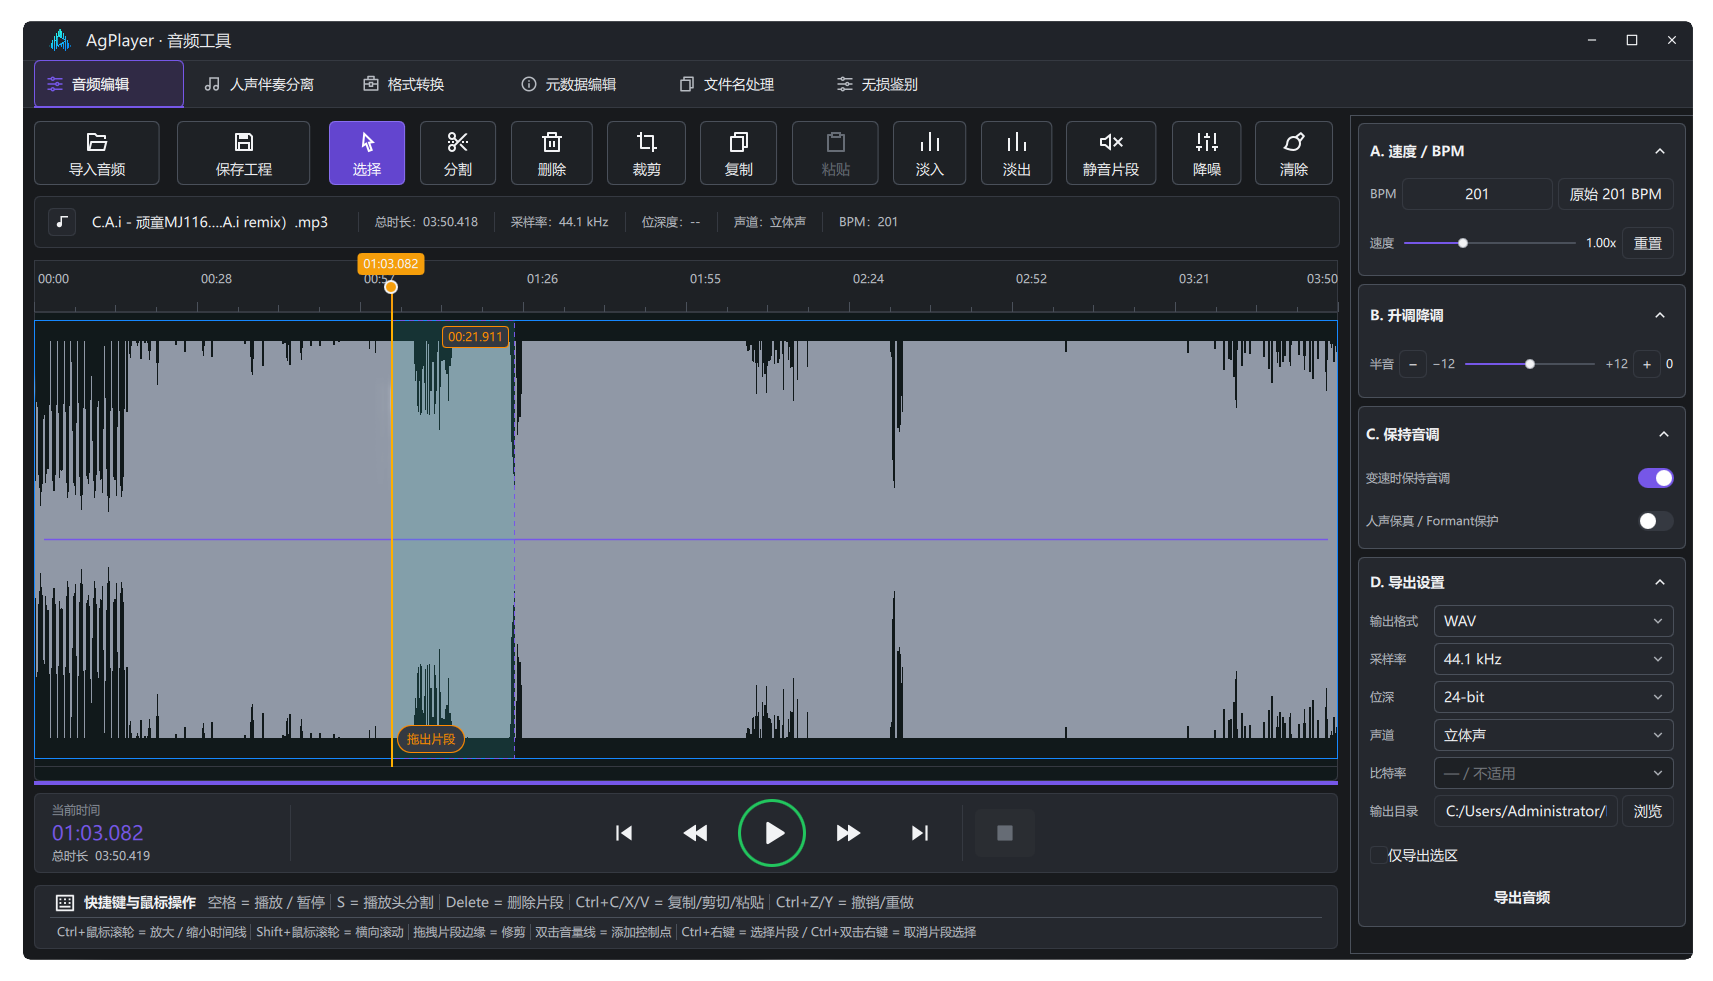
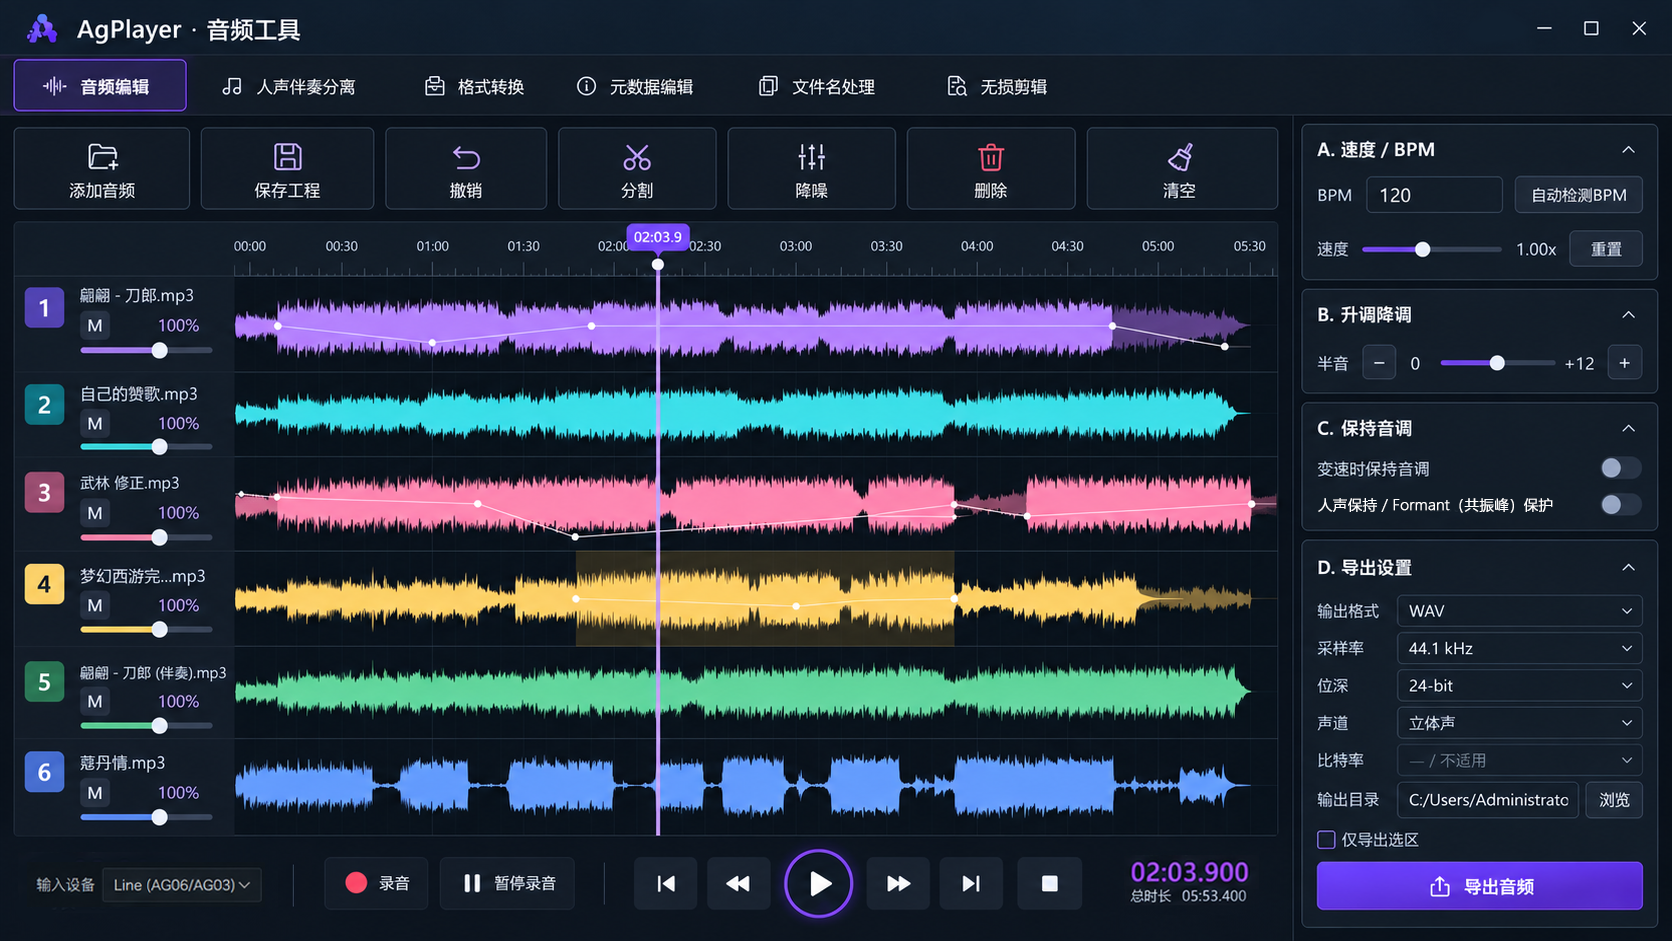
更新音频编辑截图及工具展示图

diff --git a/index.html b/index.html
@@ -12,7 +12,7 @@
   <ol class="feature-list"><li><span class="feature-emblem" aria-hidden="true"><svg class="icon"><use href="#ag-polish-audio-lines"></use></svg><small>01</small></span><div><h3 data-i18n="features.formats.title">全格式 · 无间隙播放</h3><p data-i18n="features.formats.description">支持 MP3、WAV、FLAC、AAC 等常用格式，专辑曲目自然衔接，聆听不间断。</p></div></li><li><span class="feature-emblem" aria-hidden="true"><svg class="icon"><use href="#ag-icon-scissors"></use></svg><small>02</small></span><div><h3 data-i18n="features.selection.title">框选波形 · 拖出片段</h3><p data-i18n="features.selection.description">一键框选波形，将选中片段直接拖到桌面或剪辑软件时间线，选段剪辑更高效。</p></div></li><li><span class="feature-emblem" aria-hidden="true"><svg class="icon"><use href="#ag-icon-tempo"></use></svg><small>03</small></span><div><h3 data-i18n="features.tempo.title">加速播放 · 节拍网格</h3><p data-i18n="features.tempo.description">自由调整播放速度与 BPM，配合大幅滚动波形和节拍网格，看清细节，找准节奏。</p></div></li><li><span class="feature-emblem" aria-hidden="true"><svg class="icon"><use href="#ag-polish-panels-top-left"></use></svg><small>04</small></span><div><h3 data-i18n="features.layouts.title">三种主题 · 迷你播放</h3><p data-i18n="features.layouts.description">经典双窗口、单窗口与专业模式随心切换，支持磁吸组合，迷你窗口置顶不打扰。</p></div></li><li><span class="feature-emblem" aria-hidden="true"><svg class="icon"><use href="#ag-icon-tag"></use></svg><small>05</small></span><div><h3 data-i18n="features.library.title">标签管理 · 精准筛选</h3><p data-i18n="features.library.description">用标签、收藏与评分管理歌曲，按歌曲、艺人、评分和 BPM 范围快速定位。</p></div></li><li><span class="feature-emblem" aria-hidden="true"><svg class="icon"><use href="#ag-icon-sliders"></use></svg><small>06</small></span><div><h3 data-i18n="features.editing.title">音频编辑 · 升降调</h3><p data-i18n="features.editing.description">选段、分割、裁剪与淡入淡出，支持升降调和 BPM 调速，试听满意再导出。</p></div></li><li><span class="feature-emblem" aria-hidden="true"><svg class="icon"><use href="#ag-icon-convert"></use></svg><small>07</small></span><div><h3 data-i18n="features.separation.title">伴奏分离 · 格式转换</h3><p data-i18n="features.separation.description">分离人声与伴奏，批量转换常用音频格式；工具处理时，音乐仍可正常播放。</p></div></li><li><span class="feature-emblem" aria-hidden="true"><svg class="icon"><use href="#ag-icon-file"></use></svg><small>08</small></span><div><h3 data-i18n="features.metadata.title">元数据 · 文件名整理</h3><p data-i18n="features.metadata.description">批量编辑标题、艺人、专辑与封面，预览并统一整理文件名，让音乐信息更完整。</p></div></li><li><span class="feature-emblem" aria-hidden="true"><svg class="icon"><use href="#ag-icon-searchwave"></use></svg><small>09</small></span><div><h3 data-i18n="features.quality.title">无损鉴别 · 本地处理</h3><p data-i18n="features.quality.description">结合频谱与音频特征，辅助判断音源品质；播放、分析与处理均在本地完成。</p></div></li></ol><p class="feature-updates" data-i18n="features.updates">持续更新与优化，让每一次聆听与创作更顺手。</p>
  </div>
 </section>
-<section id="tools" class="chapter tools"><canvas class="sound-field ambient-field" aria-hidden="true"></canvas><div class="container section-heading"><h2 class="" data-i18n="tools.title">轻便工具，留给音乐更多可能</h2><p class="" data-i18n="tools.localNote">所有处理均在本地完成，不影响音乐正常播放。</p></div><div class="tools-showcase"><div class="tool-orbit" aria-label="选择音频工具" data-i18n-aria="showcase.toolTabs"><button class="orbit-card is-active" type="button" data-tool="separation" aria-pressed="true" aria-label="伴奏分离" data-i18n-aria="tools.separation.title"><span class="orbit-card-bar"><svg class="icon" aria-hidden="true"><use href="#ag-icon-wave"></use></svg><span class="" data-i18n="tools.separation.title">伴奏分离</span><span class="card-dots" aria-hidden="true">···</span></span><img src="assets/images/tool-separation.png" alt="伴奏分离" data-i18n-alt="tools.separation.title" loading="lazy" decoding="async"></button><button class="orbit-card " type="button" data-tool="conversion" aria-pressed="false" aria-label="格式转换" data-i18n-aria="tools.conversion.title"><span class="orbit-card-bar"><svg class="icon" aria-hidden="true"><use href="#ag-icon-convert"></use></svg><span class="" data-i18n="tools.conversion.title">格式转换</span><span class="card-dots" aria-hidden="true">···</span></span><img src="assets/images/tool-conversion.png" alt="格式转换" data-i18n-alt="tools.conversion.title" loading="lazy" decoding="async"></button><button class="orbit-card " type="button" data-tool="editing" aria-pressed="false" aria-label="音频编辑" data-i18n-aria="tools.editing.title"><span class="orbit-card-bar"><svg class="icon" aria-hidden="true"><use href="#ag-icon-scissors"></use></svg><span class="" data-i18n="tools.editing.title">音频编辑</span><span class="card-dots" aria-hidden="true">···</span></span><img src="assets/images/tool-editing.png" alt="音频编辑" data-i18n-alt="tools.editing.title" loading="lazy" decoding="async"></button><button class="orbit-card " type="button" data-tool="metadata" aria-pressed="false" aria-label="元数据修改" data-i18n-aria="tools.metadata.title"><span class="orbit-card-bar"><svg class="icon" aria-hidden="true"><use href="#ag-icon-tag"></use></svg><span class="" data-i18n="tools.metadata.title">元数据修改</span><span class="card-dots" aria-hidden="true">···</span></span><img src="assets/images/tool-metadata.png" alt="元数据修改" data-i18n-alt="tools.metadata.title" loading="lazy" decoding="async"></button><button class="orbit-card " type="button" data-tool="filenames" aria-pressed="false" aria-label="文件名处理" data-i18n-aria="tools.filenames.title"><span class="orbit-card-bar"><svg class="icon" aria-hidden="true"><use href="#ag-icon-file"></use></svg><span class="" data-i18n="tools.filenames.title">文件名处理</span><span class="card-dots" aria-hidden="true">···</span></span><img src="assets/images/tool-filenames.png" alt="文件名处理" data-i18n-alt="tools.filenames.title" loading="lazy" decoding="async"></button><button class="orbit-card " type="button" data-tool="lossless" aria-pressed="false" aria-label="无损鉴别" data-i18n-aria="tools.lossless.title"><span class="orbit-card-bar"><svg class="icon" aria-hidden="true"><use href="#ag-icon-searchwave"></use></svg><span class="" data-i18n="tools.lossless.title">无损鉴别</span><span class="card-dots" aria-hidden="true">···</span></span><img src="assets/images/tool-lossless.png" alt="无损鉴别" data-i18n-alt="tools.lossless.title" loading="lazy" decoding="async"></button></div><div class="container tool-description-row"><button type="button" class="orbit-arrow" data-tool-step="-1" aria-label="上一项" data-i18n-aria="showcase.previous">←</button><div class="tool-info"><h3 class="" data-i18n="tools.separation.title">伴奏分离</h3><p class="" data-i18n="tools.separation.description">分离人声与伴奏，专注每一层声音。</p></div><button type="button" class="orbit-arrow" data-tool-step="1" aria-label="下一项" data-i18n-aria="showcase.next">→</button><button class="showcase-pause" data-pause="tools" type="button" aria-label="暂停自动切换"><svg class="icon" aria-hidden="true"><use href="#ag-icon-pause"></use></svg></button></div><div class="container tool-tabs" role="group" aria-label="选择音频工具" data-i18n-aria="showcase.toolTabs"><button type="button" data-tool-nav="separation" aria-pressed="true"><svg class="icon" aria-hidden="true"><use href="#ag-icon-wave"></use></svg><span class="" data-i18n="tools.separation.title">伴奏分离</span></button><button type="button" data-tool-nav="conversion" aria-pressed="false"><svg class="icon" aria-hidden="true"><use href="#ag-icon-convert"></use></svg><span class="" data-i18n="tools.conversion.title">格式转换</span></button><button type="button" data-tool-nav="editing" aria-pressed="false"><svg class="icon" aria-hidden="true"><use href="#ag-icon-scissors"></use></svg><span class="" data-i18n="tools.editing.title">音频编辑</span></button><button type="button" data-tool-nav="metadata" aria-pressed="false"><svg class="icon" aria-hidden="true"><use href="#ag-icon-tag"></use></svg><span class="" data-i18n="tools.metadata.title">元数据修改</span></button><button type="button" data-tool-nav="filenames" aria-pressed="false"><svg class="icon" aria-hidden="true"><use href="#ag-icon-file"></use></svg><span class="" data-i18n="tools.filenames.title">文件名处理</span></button><button type="button" data-tool-nav="lossless" aria-pressed="false"><svg class="icon" aria-hidden="true"><use href="#ag-icon-searchwave"></use></svg><span class="" data-i18n="tools.lossless.title">无损鉴别</span></button></div><p class="tool-extra" data-i18n="showcase.pitchBpm">音频编辑还支持升降调与 BPM 分析。</p></div></section><section id="mini" class="chapter mini mini-project">
+<section id="tools" class="chapter tools"><canvas class="sound-field ambient-field" aria-hidden="true"></canvas><div class="container section-heading"><h2 class="" data-i18n="tools.title">轻便工具，留给音乐更多可能</h2><p class="" data-i18n="tools.localNote">所有处理均在本地完成，不影响音乐正常播放。</p></div><div class="tools-showcase"><div class="tool-orbit" aria-label="选择音频工具" data-i18n-aria="showcase.toolTabs"><button class="orbit-card is-active" type="button" data-tool="separation" aria-pressed="true" aria-label="伴奏分离" data-i18n-aria="tools.separation.title"><span class="orbit-card-bar"><svg class="icon" aria-hidden="true"><use href="#ag-icon-wave"></use></svg><span class="" data-i18n="tools.separation.title">伴奏分离</span><span class="card-dots" aria-hidden="true">···</span></span><img src="assets/images/tool-separation.png" alt="伴奏分离" data-i18n-alt="tools.separation.title" loading="lazy" decoding="async"></button><button class="orbit-card " type="button" data-tool="conversion" aria-pressed="false" aria-label="格式转换" data-i18n-aria="tools.conversion.title"><span class="orbit-card-bar"><svg class="icon" aria-hidden="true"><use href="#ag-icon-convert"></use></svg><span class="" data-i18n="tools.conversion.title">格式转换</span><span class="card-dots" aria-hidden="true">···</span></span><img src="assets/images/tool-conversion.png" alt="格式转换" data-i18n-alt="tools.conversion.title" loading="lazy" decoding="async"></button><button class="orbit-card " type="button" data-tool="editing" aria-pressed="false" aria-label="音频编辑" data-i18n-aria="tools.editing.title"><span class="orbit-card-bar"><svg class="icon" aria-hidden="true"><use href="#ag-icon-scissors"></use></svg><span class="" data-i18n="tools.editing.title">音频编辑</span><span class="card-dots" aria-hidden="true">···</span></span><img src="assets/images/tool-editing.png?v=20260920" alt="音频编辑" data-i18n-alt="tools.editing.title" loading="lazy" decoding="async"></button><button class="orbit-card " type="button" data-tool="metadata" aria-pressed="false" aria-label="元数据修改" data-i18n-aria="tools.metadata.title"><span class="orbit-card-bar"><svg class="icon" aria-hidden="true"><use href="#ag-icon-tag"></use></svg><span class="" data-i18n="tools.metadata.title">元数据修改</span><span class="card-dots" aria-hidden="true">···</span></span><img src="assets/images/tool-metadata.png" alt="元数据修改" data-i18n-alt="tools.metadata.title" loading="lazy" decoding="async"></button><button class="orbit-card " type="button" data-tool="filenames" aria-pressed="false" aria-label="文件名处理" data-i18n-aria="tools.filenames.title"><span class="orbit-card-bar"><svg class="icon" aria-hidden="true"><use href="#ag-icon-file"></use></svg><span class="" data-i18n="tools.filenames.title">文件名处理</span><span class="card-dots" aria-hidden="true">···</span></span><img src="assets/images/tool-filenames.png" alt="文件名处理" data-i18n-alt="tools.filenames.title" loading="lazy" decoding="async"></button><button class="orbit-card " type="button" data-tool="lossless" aria-pressed="false" aria-label="无损鉴别" data-i18n-aria="tools.lossless.title"><span class="orbit-card-bar"><svg class="icon" aria-hidden="true"><use href="#ag-icon-searchwave"></use></svg><span class="" data-i18n="tools.lossless.title">无损鉴别</span><span class="card-dots" aria-hidden="true">···</span></span><img src="assets/images/tool-lossless.png" alt="无损鉴别" data-i18n-alt="tools.lossless.title" loading="lazy" decoding="async"></button></div><div class="container tool-description-row"><button type="button" class="orbit-arrow" data-tool-step="-1" aria-label="上一项" data-i18n-aria="showcase.previous">←</button><div class="tool-info"><h3 class="" data-i18n="tools.separation.title">伴奏分离</h3><p class="" data-i18n="tools.separation.description">分离人声与伴奏，专注每一层声音。</p></div><button type="button" class="orbit-arrow" data-tool-step="1" aria-label="下一项" data-i18n-aria="showcase.next">→</button><button class="showcase-pause" data-pause="tools" type="button" aria-label="暂停自动切换"><svg class="icon" aria-hidden="true"><use href="#ag-icon-pause"></use></svg></button></div><div class="container tool-tabs" role="group" aria-label="选择音频工具" data-i18n-aria="showcase.toolTabs"><button type="button" data-tool-nav="separation" aria-pressed="true"><svg class="icon" aria-hidden="true"><use href="#ag-icon-wave"></use></svg><span class="" data-i18n="tools.separation.title">伴奏分离</span></button><button type="button" data-tool-nav="conversion" aria-pressed="false"><svg class="icon" aria-hidden="true"><use href="#ag-icon-convert"></use></svg><span class="" data-i18n="tools.conversion.title">格式转换</span></button><button type="button" data-tool-nav="editing" aria-pressed="false"><svg class="icon" aria-hidden="true"><use href="#ag-icon-scissors"></use></svg><span class="" data-i18n="tools.editing.title">音频编辑</span></button><button type="button" data-tool-nav="metadata" aria-pressed="false"><svg class="icon" aria-hidden="true"><use href="#ag-icon-tag"></use></svg><span class="" data-i18n="tools.metadata.title">元数据修改</span></button><button type="button" data-tool-nav="filenames" aria-pressed="false"><svg class="icon" aria-hidden="true"><use href="#ag-icon-file"></use></svg><span class="" data-i18n="tools.filenames.title">文件名处理</span></button><button type="button" data-tool-nav="lossless" aria-pressed="false"><svg class="icon" aria-hidden="true"><use href="#ag-icon-searchwave"></use></svg><span class="" data-i18n="tools.lossless.title">无损鉴别</span></button></div><p class="tool-extra" data-i18n="showcase.pitchBpm">音频编辑还支持升降调与 BPM 分析。</p></div></section><section id="mini" class="chapter mini mini-project">
  <div class="container mini-project-shell">
   <span class="mini-project-badge" aria-hidden="true">MINI</span>
   <div class="mini-project-card">
